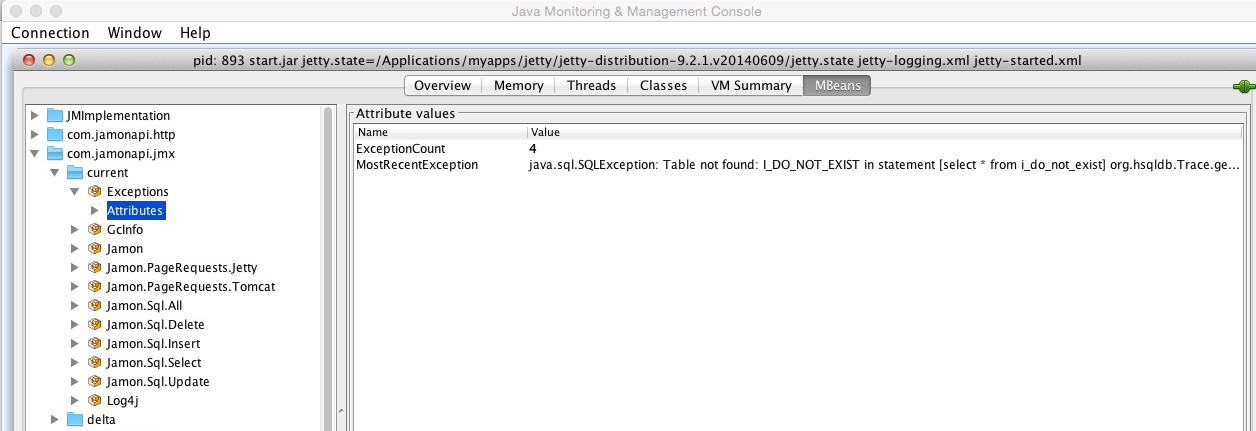
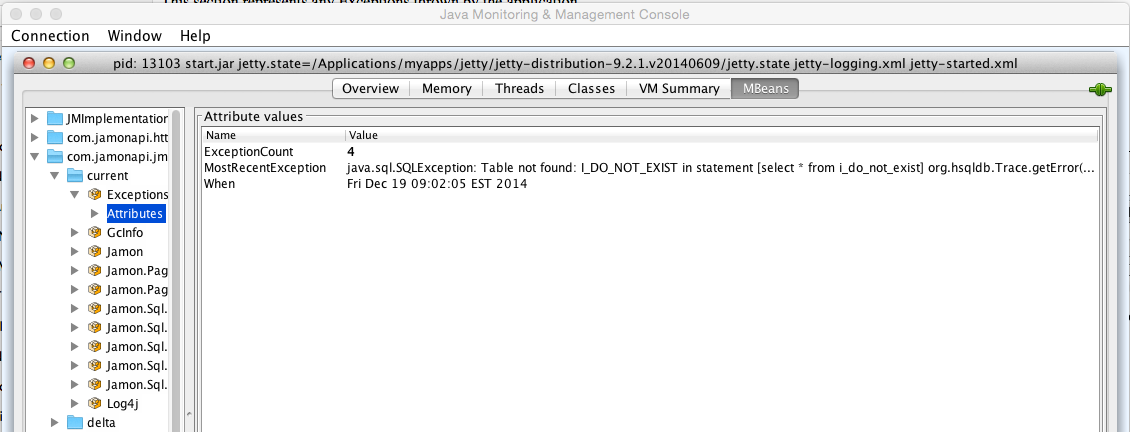
jmx - fixed jmx exception documentation to reflect new field 'When'

Changed region(s): [[0.0, 0.0, 1.0, 1.0]]

diff --git a/src/JAMonUsersGuide/jmx_jamon.html b/src/JAMonUsersGuide/jmx_jamon.html
@@ -46,7 +46,7 @@
             <ol>
                 <li><a href="#log4j">Log4j</a> - Counts for calls at the various log levels: TRACE, DEBUG, WARNING, INFO, ERROR, FATAL,...</li>
                 <li><a href="#pagerequests">Page Requests</a> - Metrics for page hits in a web application.  Metrics include count, average time, total time, max time, min time and more.</li>
-                <li><a href="#sql">SQL Executions</a> - Metrics for SQL statements including select, insert, delete, update and more.  Metrics include count, average time, total time, max time, min time and more.</li>
+                <li><a href="#sql">SQL</a> - Metrics for SQL statements including select, insert, delete, update and more.  Metrics include count, average time, total time, max time, min time and more.</li>
                 <li><a href="#exceptions">Exceptions</a> - A count of exceptions thrown by the application.  You can also view the most recent stack trace.</li>
                 <li><a href="#gc">Garbage Collection info</a> - For Oracle JVM's metrics for the garbage collector are automatically stored in JAMon.  This allows developers to look at details of the
                 garbage collector without grepping a log.  It also tracks the following garbage collector metrics: how often it fires, how long it takes, how much memory it frees and more.</li>
@@ -78,7 +78,7 @@
 
     <p><img src="jamon_jmx_pagerequests.png" border="1"></p>
 
-<h2><a name="sql">3. SQL Executions</a></h2>
+<h2><a name="sql">3. SQL</a></h2>
 
 <p> This section represents any SQL commands executed by the application.
 <ul>
@@ -95,7 +95,13 @@
 <p> This section represents any Exceptions thrown by the application.
 <ul>
     <li>To enable this capability one of the JAMon capbilities that tracks exceptions must be enabled.  This includes SQL, HTTP Page Request, interface monitoring, or Sring AOP monitoring.</li>
-    <li>As you can see below the count of exceptions as well as the most recent stack trace are tracked.</li>
+    <li>As you can see below the following are tracked:
+        <ol>
+            <li>Count of exceptions,</li>
+            <li>The most recent stacktrace, </li>
+            <li>When the most recent stacktrace occurred.</li>
+        </ol>
+    </li>
 </ul>
     <p><img src="jamon_jmx_exceptions.png" border="1"></p>
 
